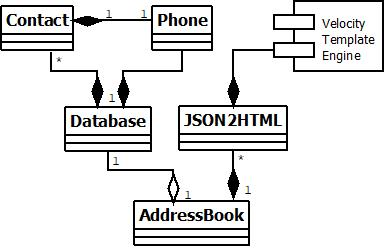
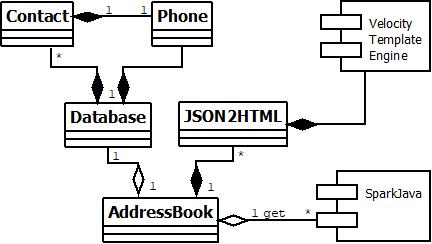
added the reference to SparkJava in class diagram

Changed region(s): [[0.0, 0.0, 1.0, 1.0]]

diff --git a/src/main/java/com/spenserkao/addressbook/AddressBook.java b/src/main/java/com/spenserkao/addressbook/AddressBook.java
@@ -83,7 +83,7 @@ public class AddressBook {
 			}
 		}
 
-        // Configure the routes
+        // Configure the routes - thru three parts: verb, path and callback.
     	get("/addressbook", (req, res) -> {
 			return welcomeMsgEndpointsList();
     	}); 
